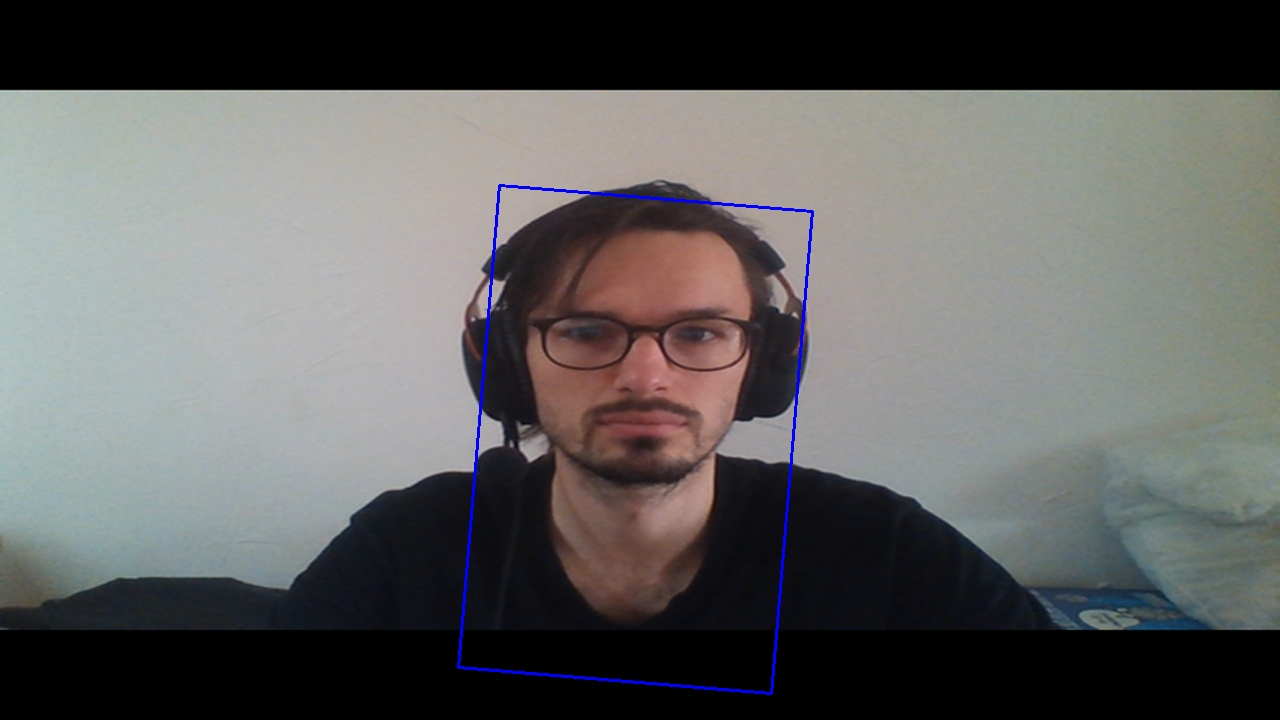
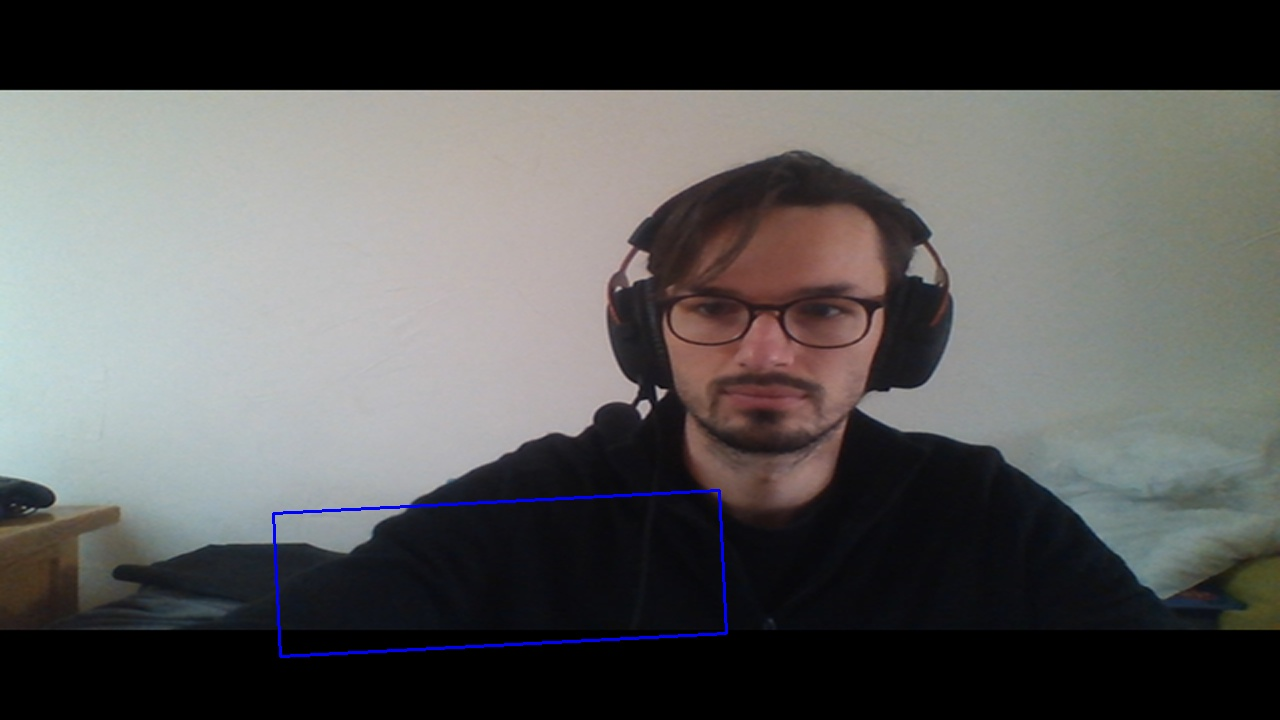
Ajout de photo test

Changed region(s): [[0.0, 0.2139, 1.0, 0.9778]]

diff --git a/pretraitement/__init__.py b/pretraitement/__init__.py
@@ -13,7 +13,7 @@ def pretraitement(frame):
     # set the region for the 
     # tracking window p, q, r, s 
     # put values according to yourself 
-    p, q, r, s = 150, 150, 400, 120
+    p, q, r, s = 150, 150, 300, 120
     track_window = (r, p, s, q) 
        
           
@@ -21,7 +21,8 @@ def pretraitement(frame):
     #r_o_i = frame[p:p + q, r:r + s] 
       
     # converting BGR to HSV format 
-    hsv = cv2.cvtColor(frame, cv2.COLOR_BGR2HSV) 
+    hsv = cv2.cvtColor(frame, cv2.COLOR_BGR2HSV)
+    cv2.imwrite(filename='image_hsv.jpg', img=hsv)
        
     # apply mask on the HSV frame 
     mask = cv2.inRange(hsv, np.array((0., 60.,32.)), np.array((180.,255.,255.))) 
